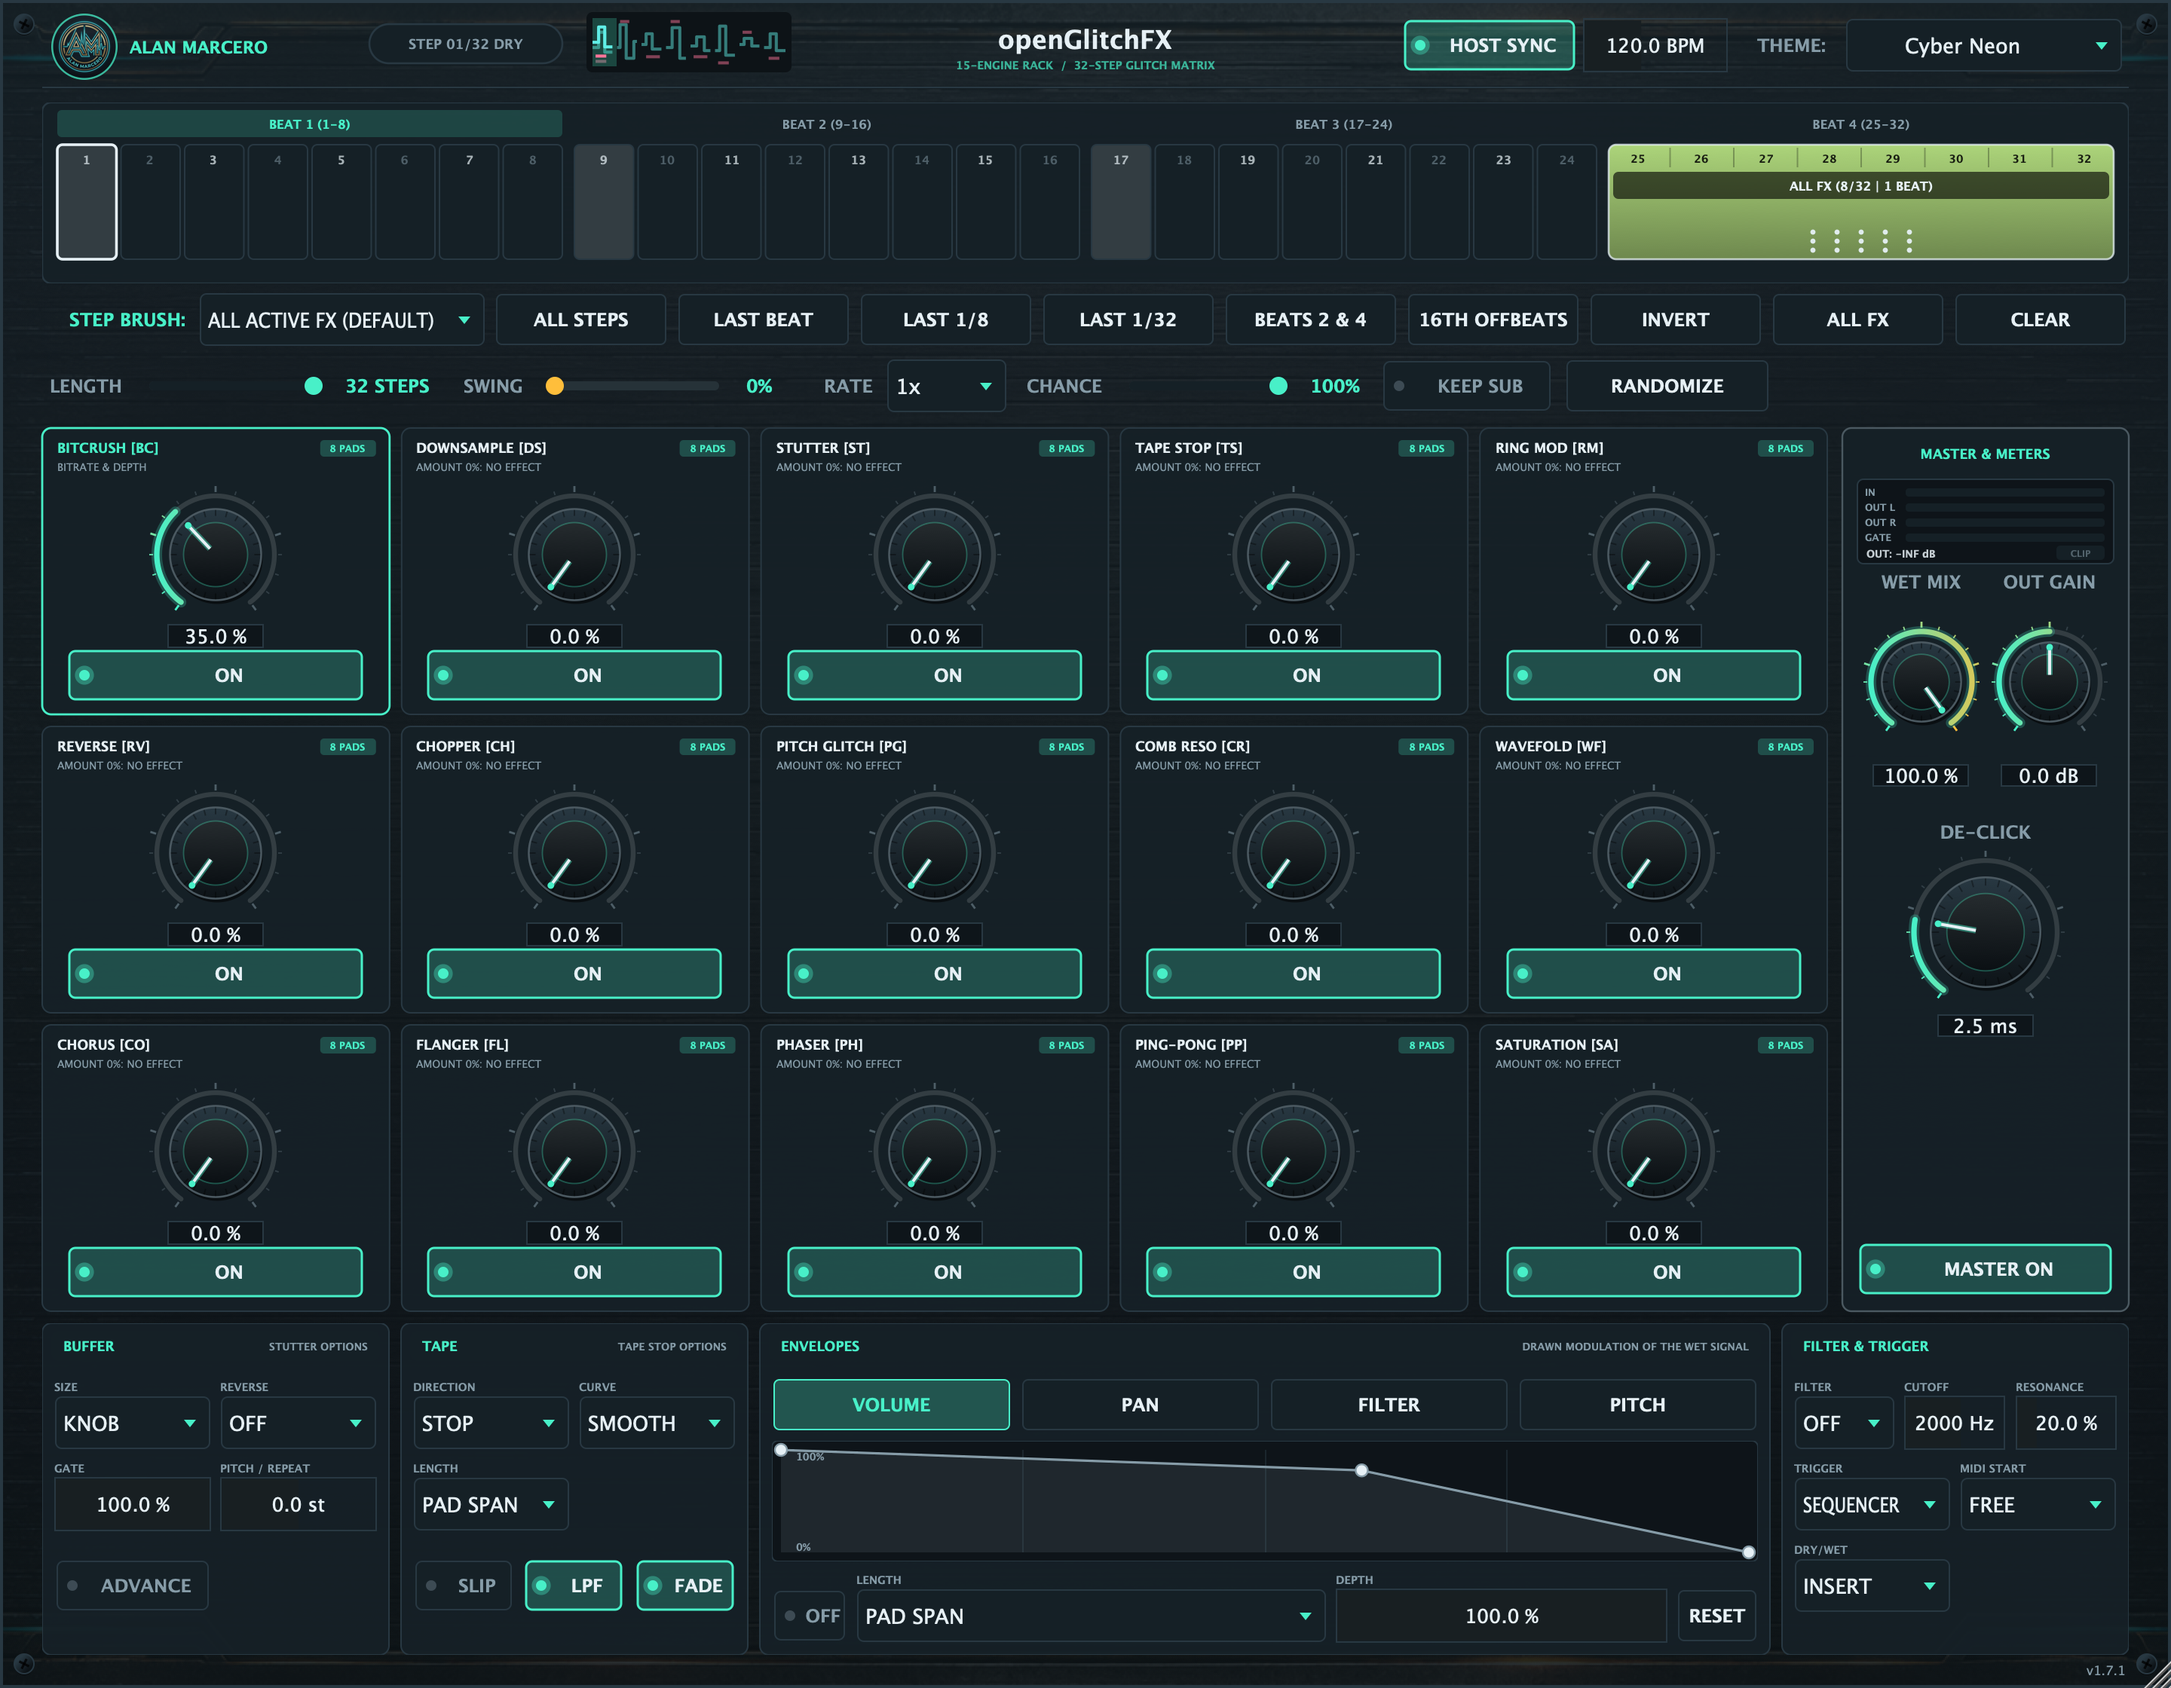
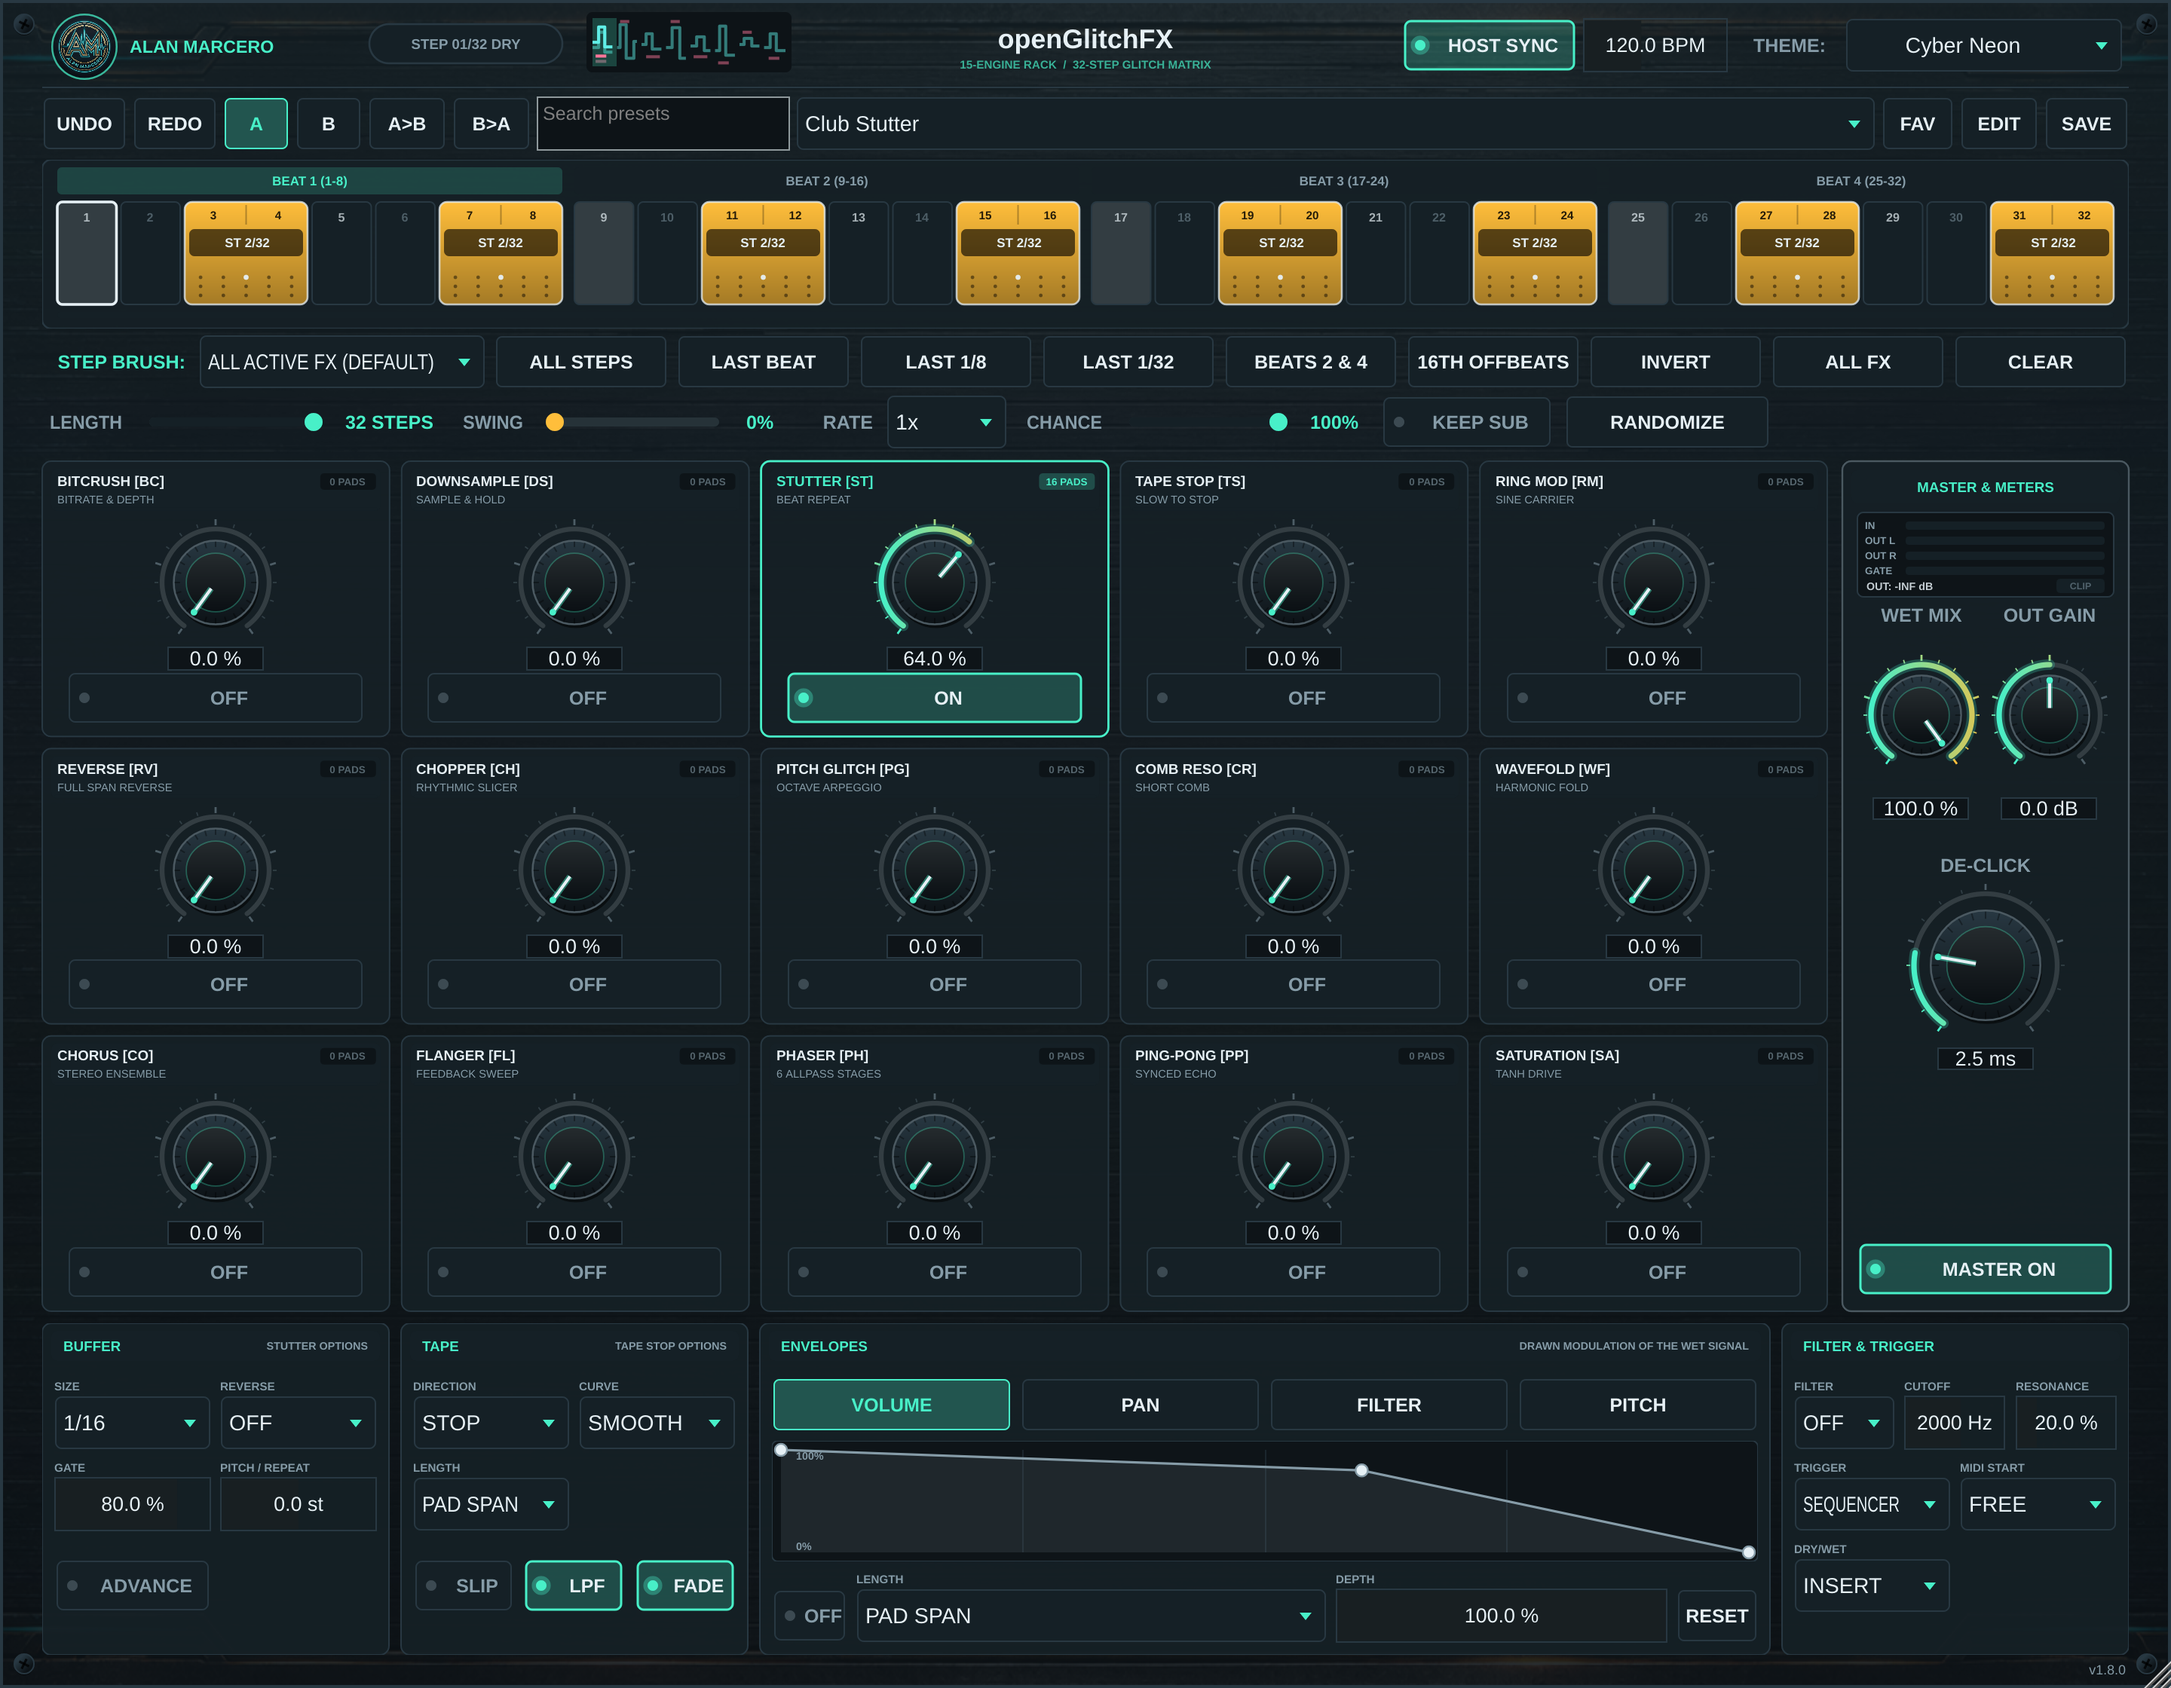
docs: refresh the v1.8.0 editor preview
Render the default 1440×1120 editor with the Club Stutter factory patch, and commit that capture from the Windows editor test when future main pushes change the editor.

diff --git a/docs/SCREENSHOTS.md b/docs/SCREENSHOTS.md
@@ -1,12 +1,12 @@
 # Native UI screenshot
 
-![openGlitchFX 1.6.0 editor](../assets/native-ui.png)
+![openGlitchFX 1.8.0 editor](../assets/native-ui.png)
 
-Captured on macOS from the v1.6.0 Release editor in Cyber Neon. The eight-slice waveform appears between the step indicator and the rack title. The 1440 × 1120 editor was rendered at 2× scale (2880 × 2240).
+Captured from the default 1440 × 1120 editor in Cyber Neon with the Club Stutter factory patch. The eight-slice waveform appears between the step indicator and the rack title. The editor was rendered at 2× scale (2880 × 2240).
 
-The native GUI test also checks the default and minimum sizes, all four theme menus, and how the waveform responds to transport changes at 48 and 96 kHz. All 49 local CTest cases passed.
+The native GUI test also checks the default and minimum sizes, all four theme menus, and how the waveform responds to transport changes at 48 and 96 kHz.
 
[2 lines of base64/hex data omitted]
 
 
 ## OpenVST Manager preview
